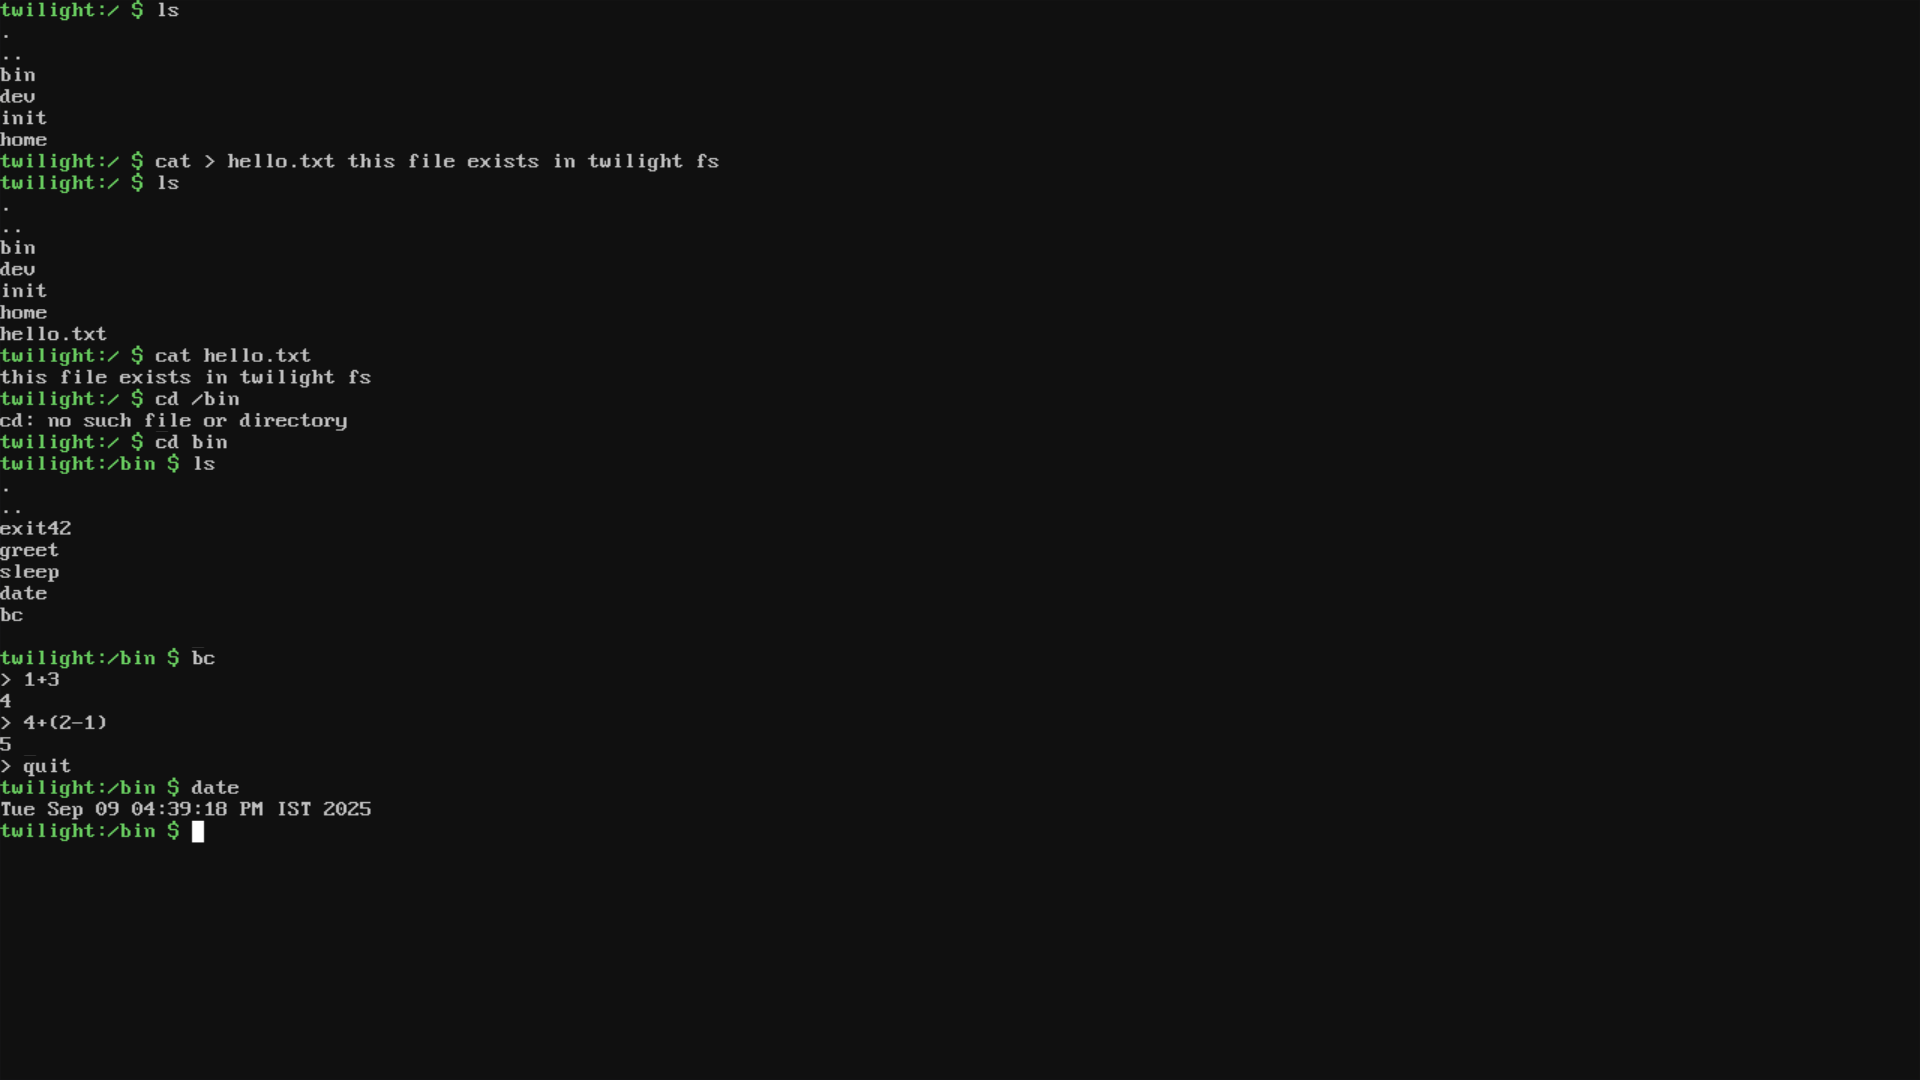
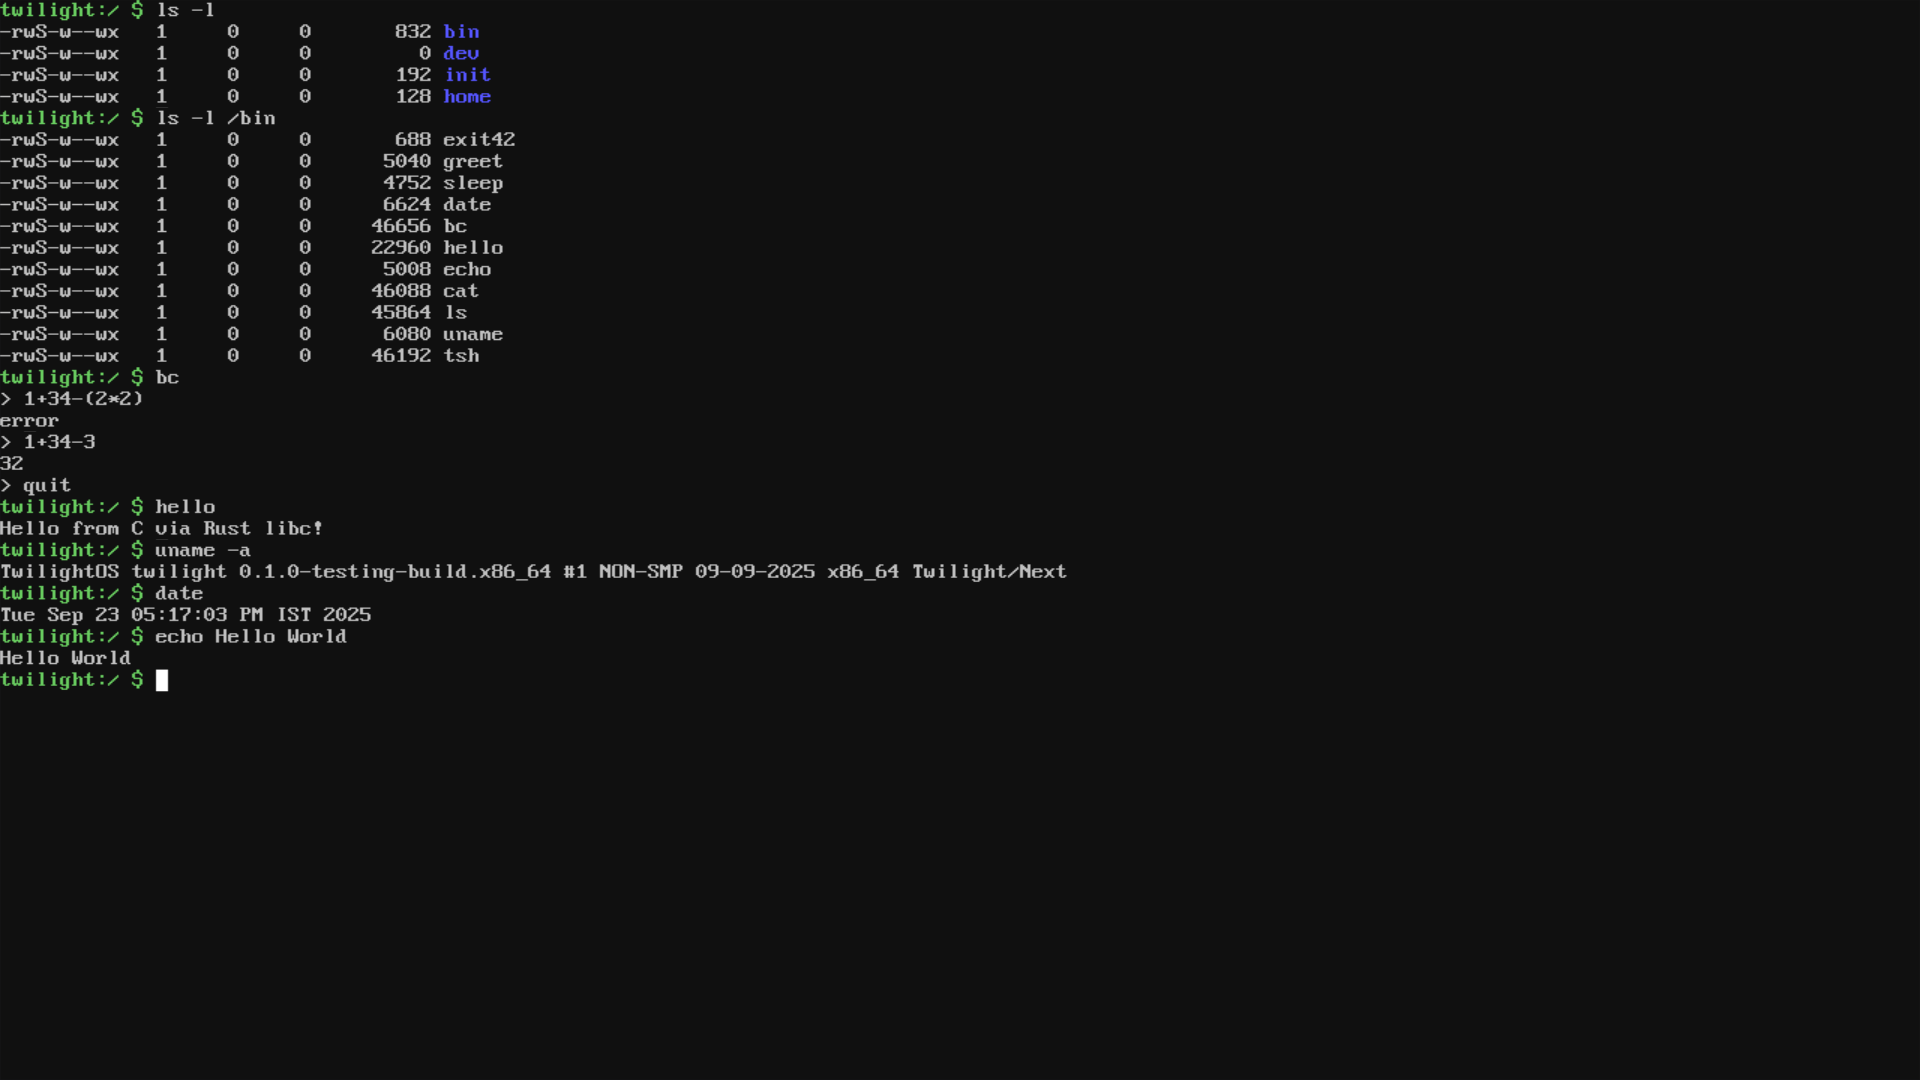
update: readme

diff --git a/userspace/apps/bc.c b/userspace/apps/bc.c
@@ -99,6 +99,7 @@ int main(void){
 
     for(;;){
         printf("> ");
+        fflush(stdout);
         if (!read_line(line, sizeof line)) { puts(""); break; }
         trim(line);
         if (!line[0]) continue;

diff --git a/README.md b/README.md
@@ -58,6 +58,7 @@ Twilight OS builds require:
 - `ld` (GNU binutils linker)
 - `xorriso` (for ISO creation)
 - `qemu` (for virtualization)
+- `musl-gcc`
 
 ---
 
@@ -69,7 +70,7 @@ Twilight OS builds require:
 
 ```bash
 sudo apt update
-sudo apt install build-essential nasm qemu-system-x86 xorriso
+sudo apt install build-essential nasm qemu-system-x86 xorriso gcc musl-tools
 rustup target add x86_64-unknown-none
 rustup component add llvm-tools-preview
 ```
@@ -77,7 +78,7 @@ rustup component add llvm-tools-preview
 - _Fedora_
 
 ```bash
-sudo dnf install make nasm qemu-system-x86 xorriso
+sudo dnf install make nasm qemu-system-x86 xorriso musl-gcc
 rustup target add x86_64-unknown-none
 rustup component add llvm-tools-preview
 ```
@@ -85,7 +86,7 @@ rustup component add llvm-tools-preview
 - _Arch Linux_
 
 ```bash
-sudo pacman -S base-devel nasm qemu xorriso
+sudo pacman -S base-devel nasm qemu xorriso musl
 rustup target add x86_64-unknown-none
 rustup component add llvm-tools-preview
 ```
